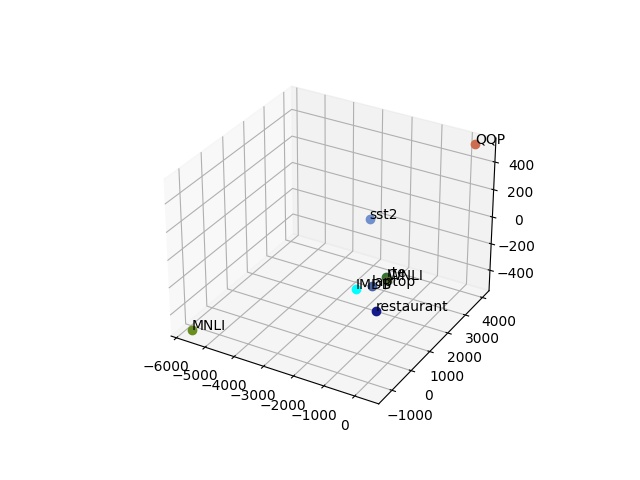
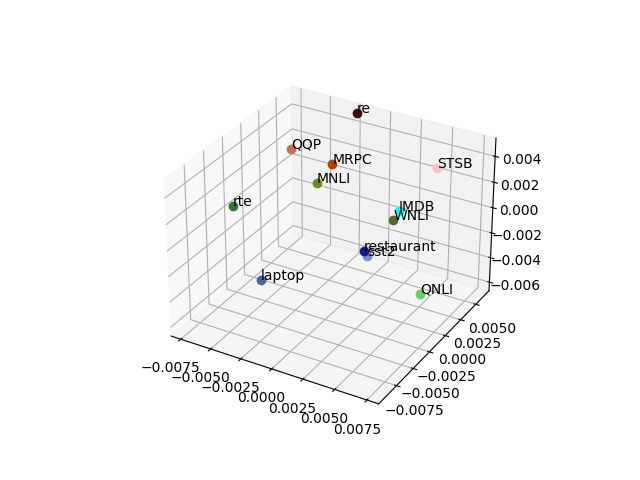
update

Changed region(s): [[0.25, 0.1875, 0.8438, 0.875], [0.2188, 0.75, 0.5938, 0.9062]]

diff --git a/draw_cuda_taskprompt.py b/draw_cuda_taskprompt.py
@@ -479,18 +479,18 @@ print("Done")
 ################
 
 ################
+'''
 print("Using trained AE model")
 compressed_prompt_emb = trained_AE(input=all_prompt_emb,out_features=dim)
+'''
 #################
 
 
 
 #PCA compress
 ####################
-'''
 compressed_prompt_emb = PCA_svd(X=all_prompt_emb,k=dim)
 print(compressed_prompt_emb.shape)
-'''
 
 #all: 92%
 #sentiment: 100%
@@ -515,8 +515,8 @@ task_map={0:"sst2",1:"rte",2:"re",3:"MNLI",4:"MRPC",5:"QNLI",6:"QQP",7:"WNLI",8:
 color_map={0:"#728FCE",1:"#347235",2:"#3D0C02",3:"#6B8E23",4:"#C04000",5:"#64CD64",6:"#CB6D51",7:"#556B2F",8:"#FFC0CB",9:"#4863A0",10:"#151B8D",11:"#00FFFF"}
 
 
-#blocked_list = []
-blocked_list = [2,4,5,8]
+blocked_list = []
+#blocked_list = [2,4,5,8]
 #blocked_list = [1,3,2,5,8]
 
 #sentiment, NLI, RE, Paraphrase

diff --git a/README.md b/README.md
@@ -182,6 +182,15 @@ Task:
 
 ![](https://github.com/yushengsu-thu/prompt/blob/main/exp_results/task_acc_sim_2D.jpg)
 
+- Task similiarty (AE) 
+
+![](https://github.com/yushengsu-thu/prompt/blob/main/exp_results/task_sim_AE.jpg)
+
+- Task similiarty (PCA) 
+
+![](https://github.com/yushengsu-thu/prompt/blob/main/exp_results/task_sim_PCA_3D.jpg)
+
+![](https://github.com/yushengsu-thu/prompt/blob/main/exp_results/task_sim_PCA_2D.jpg)
 
 
 - Bert
